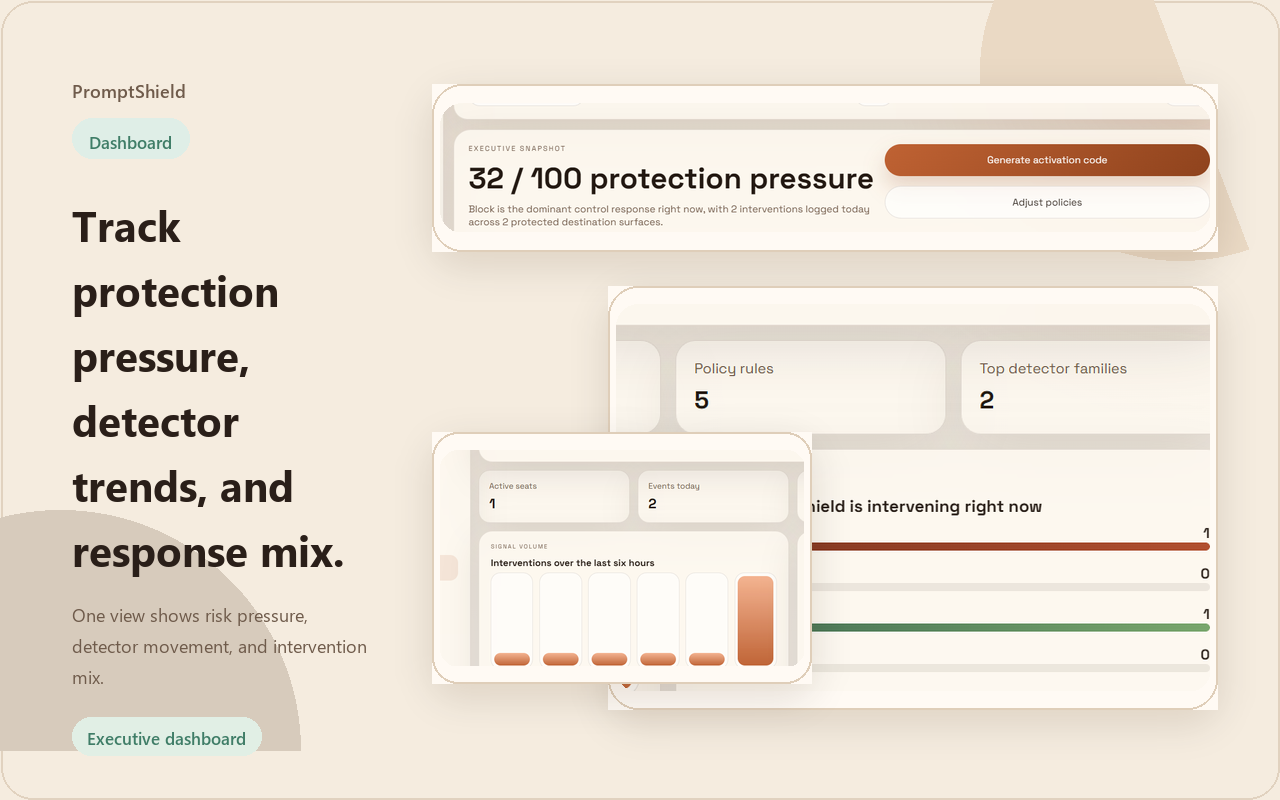
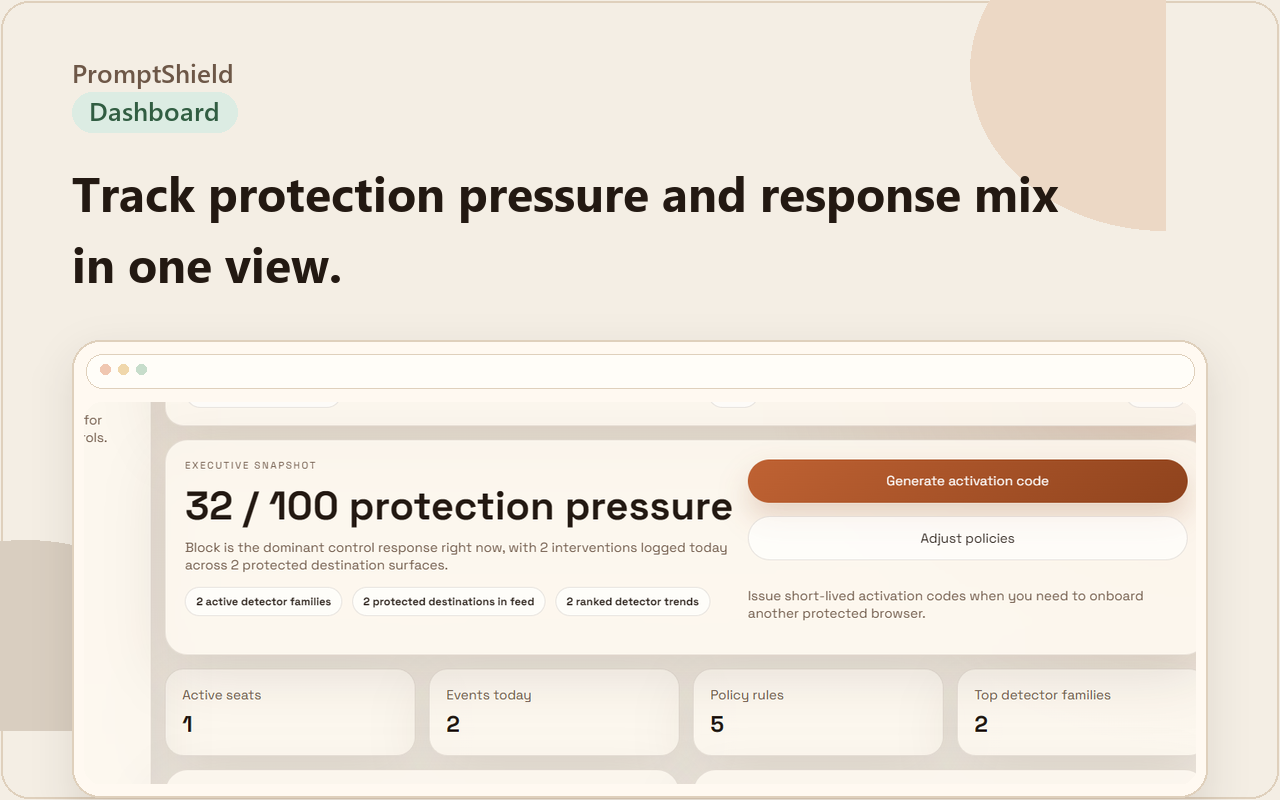
Improve PromptShield store screenshots

diff --git a/apps/web/src/styles/workspace.css b/apps/web/src/styles/workspace.css
@@ -267,6 +267,25 @@
   gap: 0.75rem;
 }
 
+.detail-card {
+  display: grid;
+  gap: 0.35rem;
+  padding: 0.95rem 1rem;
+  border-radius: 1rem;
+  background: rgba(255, 255, 255, 0.68);
+  border: 1px solid var(--line);
+}
+
+.detail-card span {
+  color: var(--muted);
+}
+
+.detail-card strong {
+  display: block;
+  font-size: 1.12rem;
+  line-height: 1.2;
+}
+
 .inspector-section {
   display: grid;
   gap: 0.65rem;

diff --git a/infra/scripts/generate-store-assets.py b/infra/scripts/generate-store-assets.py
@@ -1,0 +1,315 @@
+from pathlib import Path
+
+from PIL import Image, ImageDraw, ImageFilter, ImageFont, ImageOps
+
+
+ROOT = Path(__file__).resolve().parents[2]
+STORE_DIR = ROOT / "apps" / "extension" / "assets" / "store"
+CAPTURE_DIR = ROOT / "tmp" / "store-captures"
+
+BG = "#f4eee4"
+SURFACE = "#fff9f1"
+LINE = "#dfd0bc"
+INK = "#231912"
+MUTED = "#6d5747"
+ACCENT = "#bf6233"
+ACCENT_DARK = "#8f431d"
+REDIRECT = "#315d42"
+MINT = "#dcece3"
+PEACH = "#f4e3d5"
+PROMO_BG_TOP = "#3a2016"
+PROMO_BG_BOTTOM = "#b45f33"
+SHADOW = (55, 32, 17, 26)
+
+FONT_REGULAR = ImageFont.truetype(r"C:\Windows\Fonts\segoeui.ttf", 24)
+FONT_BODY = ImageFont.truetype(r"C:\Windows\Fonts\segoeui.ttf", 24)
+FONT_SEMIBOLD = ImageFont.truetype(r"C:\Windows\Fonts\seguisb.ttf", 26)
+FONT_PROMO_BODY = ImageFont.truetype(r"C:\Windows\Fonts\segoeui.ttf", 28)
+
+
+def make_canvas(size: tuple[int, int]) -> Image.Image:
+    image = Image.new("RGBA", size, BG)
+    draw = ImageDraw.Draw(image)
+    draw.rounded_rectangle((1, 1, size[0] - 2, size[1] - 2), radius=28, outline=LINE, width=2)
+    draw.pieslice((size[0] - 310, -90, size[0] + 80, 230), start=90, end=270, fill="#ecd8c5")
+    draw.pieslice((-180, size[1] - 260, 230, size[1] + 120), start=180, end=360, fill="#d9cec0")
+    return image
+
+
+def make_promo_canvas(size: tuple[int, int]) -> Image.Image:
+    image = Image.new("RGBA", size, PROMO_BG_BOTTOM)
+    overlay = Image.new("RGBA", size, (0, 0, 0, 0))
+    draw = ImageDraw.Draw(overlay)
+    for y in range(size[1]):
+        ratio = y / max(1, size[1] - 1)
+        top = tuple(int(int(PROMO_BG_TOP[i : i + 2], 16) * (1 - ratio) + int(PROMO_BG_BOTTOM[i : i + 2], 16) * ratio) for i in (1, 3, 5))
+        draw.line((0, y, size[0], y), fill=top + (255,), width=1)
+    image.alpha_composite(overlay)
+    draw = ImageDraw.Draw(image)
+    draw.rounded_rectangle((18, 18, size[0] - 18, size[1] - 18), radius=34, outline=(255, 228, 206, 70), width=2)
+    draw.pieslice((size[0] - 180, -40, size[0] + 120, 170), start=80, end=280, fill=(255, 227, 200, 48))
+    return image
+
+
+def rounded_mask(size: tuple[int, int], radius: int) -> Image.Image:
+    mask = Image.new("L", size, 0)
+    draw = ImageDraw.Draw(mask)
+    draw.rounded_rectangle((0, 0, size[0], size[1]), radius=radius, fill=255)
+    return mask
+
+
+def wrap_lines(draw: ImageDraw.ImageDraw, text: str, font: ImageFont.FreeTypeFont, width: int) -> list[str]:
+    words = text.split()
+    lines: list[str] = []
+    current = ""
+    for word in words:
+        probe = word if not current else f"{current} {word}"
+        if draw.textbbox((0, 0), probe, font=font)[2] <= width:
+            current = probe
+        else:
+            if current:
+                lines.append(current)
+            current = word
+    if current:
+        lines.append(current)
+    return lines
+
+
+def draw_paragraph(
+    draw: ImageDraw.ImageDraw,
+    text: str,
+    xy: tuple[int, int],
+    width: int,
+    font: ImageFont.FreeTypeFont,
+    fill: str,
+    line_gap: int = 8,
+) -> int:
+    x, y = xy
+    lines = wrap_lines(draw, text, font, width)
+    ascent, descent = font.getmetrics()
+    line_height = ascent + descent
+    for line in lines:
+        draw.text((x, y), line, font=font, fill=fill)
+        y += line_height + line_gap
+    return y
+
+
+def fit_title_font(draw: ImageDraw.ImageDraw, text: str, width: int, max_lines: int, *, min_size: int, max_size: int) -> ImageFont.FreeTypeFont:
+    for size in range(max_size, min_size - 1, -2):
+        font = ImageFont.truetype(r"C:\Windows\Fonts\segoeuib.ttf", size)
+        if len(wrap_lines(draw, text, font, width)) <= max_lines:
+            return font
+    return ImageFont.truetype(r"C:\Windows\Fonts\segoeuib.ttf", min_size)
+
+
+def draw_left_centered_text(
+    draw: ImageDraw.ImageDraw,
+    box: tuple[int, int, int, int],
+    text: str,
+    font: ImageFont.FreeTypeFont,
+    fill: str,
+    *,
+    padding_left: int,
+) -> None:
+    bbox = draw.textbbox((0, 0), text, font=font)
+    text_height = bbox[3] - bbox[1]
+    x = box[0] + padding_left
+    y = box[1] + ((box[3] - box[1]) - text_height) // 2 - bbox[1]
+    draw.text((x, y), text, font=font, fill=fill)
+
+
+def add_shadow(base: Image.Image, box: tuple[int, int, int, int], radius: int) -> None:
+    shadow = Image.new("RGBA", base.size, (0, 0, 0, 0))
+    draw = ImageDraw.Draw(shadow)
+    draw.rounded_rectangle((box[0], box[1] + 14, box[2], box[3] + 14), radius=radius, fill=SHADOW)
+    shadow = shadow.filter(ImageFilter.GaussianBlur(20))
+    base.alpha_composite(shadow)
+
+
+def add_browser_card(
+    base: Image.Image,
+    source: Image.Image,
+    crop_box: tuple[int, int, int, int],
+    box: tuple[int, int, int, int],
+    *,
+    fit: bool = True,
+) -> None:
+    x0, y0, x1, y1 = box
+    width = x1 - x0
+    height = y1 - y0
+    radius = 28
+    add_shadow(base, box, radius)
+
+    card = Image.new("RGBA", (width, height), (0, 0, 0, 0))
+    draw = ImageDraw.Draw(card)
+    draw.rounded_rectangle((0, 0, width - 1, height - 1), radius=radius, fill=SURFACE, outline=LINE, width=2)
+    draw.rounded_rectangle((14, 14, width - 14, 48), radius=16, fill="#fffdf8", outline=LINE, width=1)
+    for index, color in enumerate(("#f0c7b1", "#f0d7ab", "#c7ddcb")):
+        left = 28 + index * 18
+        draw.ellipse((left, 24, left + 10, 34), fill=color)
+
+    inner = source.crop(crop_box)
+    target_size = (width - 24, height - 76)
+    if fit:
+        framed = ImageOps.fit(inner, target_size, method=Image.Resampling.LANCZOS, centering=(0.5, 0.0))
+    else:
+        framed = ImageOps.contain(inner, target_size, method=Image.Resampling.LANCZOS)
+    px = (width - framed.width) // 2
+    py = 62 + max(0, (target_size[1] - framed.height) // 2)
+    card.paste(framed, (px, py), rounded_mask(framed.size, 18))
+    base.alpha_composite(card, (x0, y0))
+
+
+def add_header(
+    base: Image.Image,
+    badge: str,
+    badge_fill: str,
+    badge_text: str,
+    title: str,
+    body: str,
+) -> int:
+    draw = ImageDraw.Draw(base)
+    draw.text((72, 54), "PromptShield", font=FONT_SEMIBOLD, fill=MUTED)
+    badge_width = draw.textbbox((0, 0), badge, font=FONT_SEMIBOLD)[2] + 34
+    badge_box = (72, 92, 72 + badge_width, 132)
+    draw.rounded_rectangle(badge_box, radius=20, fill=badge_fill)
+    draw_left_centered_text(draw, badge_box, badge, FONT_SEMIBOLD, badge_text, padding_left=17)
+    title_font = fit_title_font(draw, title, 1040, 2, min_size=38, max_size=48)
+    next_y = draw_paragraph(draw, title, (72, 160), 1040, title_font, INK, line_gap=6)
+    if body:
+        next_y = draw_paragraph(draw, body, (72, next_y + 10), 1060, FONT_BODY, MUTED, line_gap=6)
+    return next_y + 14
+
+
+def render_screenshot(
+    target: Path,
+    badge: str,
+    badge_fill: str,
+    badge_text: str,
+    title: str,
+    body: str,
+    cards: list[dict],
+) -> None:
+    image = make_canvas((1280, 800))
+    header_bottom = add_header(image, badge, badge_fill, badge_text, title, body)
+    y_shift = max(0, header_bottom - 260)
+    for card in cards:
+        box = card["box"]
+        add_browser_card(
+            image,
+            card["source"],
+            card["crop_box"],
+            (box[0], box[1] + y_shift, box[2], box[3] + y_shift),
+            fit=card.get("fit", True),
+        )
+    image.convert("RGB").save(target, quality=95)
+
+
+def render_promo_tiles(overview: Image.Image, events: Image.Image) -> None:
+    small = make_promo_canvas((440, 280))
+    draw = ImageDraw.Draw(small)
+    draw.text((34, 34), "PromptShield", font=ImageFont.truetype(r"C:\Windows\Fonts\seguisb.ttf", 28), fill="#fff3e8")
+    promo_small_title = fit_title_font(draw, "Protect prompts in-browser.", 180, 3, min_size=22, max_size=32)
+    draw_paragraph(
+        draw,
+        "Protect prompts in-browser.",
+        (34, 78),
+        170,
+        promo_small_title,
+        "#fffaf4",
+        line_gap=4,
+    )
+    add_browser_card(small, events, (760, 250, 1560, 790), (252, 40, 410, 210))
+    small.convert("RGB").save(STORE_DIR / "promo-tile-small.png", quality=95)
+
+    large = make_promo_canvas((920, 680))
+    draw = ImageDraw.Draw(large)
+    draw.text((36, 38), "PromptShield", font=ImageFont.truetype(r"C:\Windows\Fonts\seguisb.ttf", 32), fill="#fff3e8")
+    promo_large_title = fit_title_font(draw, "Protect prompts before they leave the browser.", 380, 3, min_size=38, max_size=58)
+    next_y = draw_paragraph(
+        draw,
+        "Protect prompts before they leave the browser.",
+        (36, 104),
+        380,
+        promo_large_title,
+        "#fffaf4",
+        line_gap=6,
+    )
+    draw_paragraph(
+        draw,
+        "Browser-first intervention for secrets, customer data, and rollout governance.",
+        (36, next_y + 14),
+        380,
+        FONT_PROMO_BODY,
+        "#f5e9db",
+        line_gap=8,
+    )
+    add_browser_card(large, overview, (250, 160, 1560, 820), (470, 84, 872, 344))
+    add_browser_card(large, events, (760, 240, 1560, 800), (436, 374, 884, 610))
+    large.convert("RGB").save(STORE_DIR / "promo-tile-large.png", quality=95)
+
+
+def main() -> None:
+    events = Image.open(CAPTURE_DIR / "events-source.png").convert("RGBA")
+    overview = Image.open(CAPTURE_DIR / "overview-source.png").convert("RGBA")
+    users = Image.open(CAPTURE_DIR / "users-panel.png").convert("RGBA")
+
+    render_screenshot(
+        STORE_DIR / "screenshot-01-block.png",
+        "Block",
+        PEACH,
+        ACCENT_DARK,
+        "Block risky prompts before they leave the browser.",
+        "",
+        [
+            {
+                "source": events,
+                "crop_box": (220, 170, 1580, 820),
+                "box": (72, 284, 1208, 740),
+            }
+        ],
+    )
+
+    render_screenshot(
+        STORE_DIR / "screenshot-02-dashboard.png",
+        "Dashboard",
+        MINT,
+        REDIRECT,
+        "Track protection pressure and response mix in one view.",
+        "",
+        [
+            {
+                "source": overview,
+                "crop_box": (235, 150, 1570, 810),
+                "box": (72, 284, 1208, 742),
+            }
+        ],
+    )
+
+    render_screenshot(
+        STORE_DIR / "screenshot-03-rollout.png",
+        "Rollout",
+        PEACH,
+        ACCENT_DARK,
+        "Issue short-lived codes and confirm active installs.",
+        "",
+        [
+            {
+                "source": overview,
+                "crop_box": (1080, 170, 1560, 380),
+                "box": (250, 314, 1030, 538),
+                "fit": True,
+            },
+            {
+                "source": users,
+                "crop_box": (0, 0, 1252, 320),
+                "box": (72, 548, 1208, 742),
+            },
+        ],
+    )
+
+    render_promo_tiles(overview, events)
+
+
+if __name__ == "__main__":
+    main()
